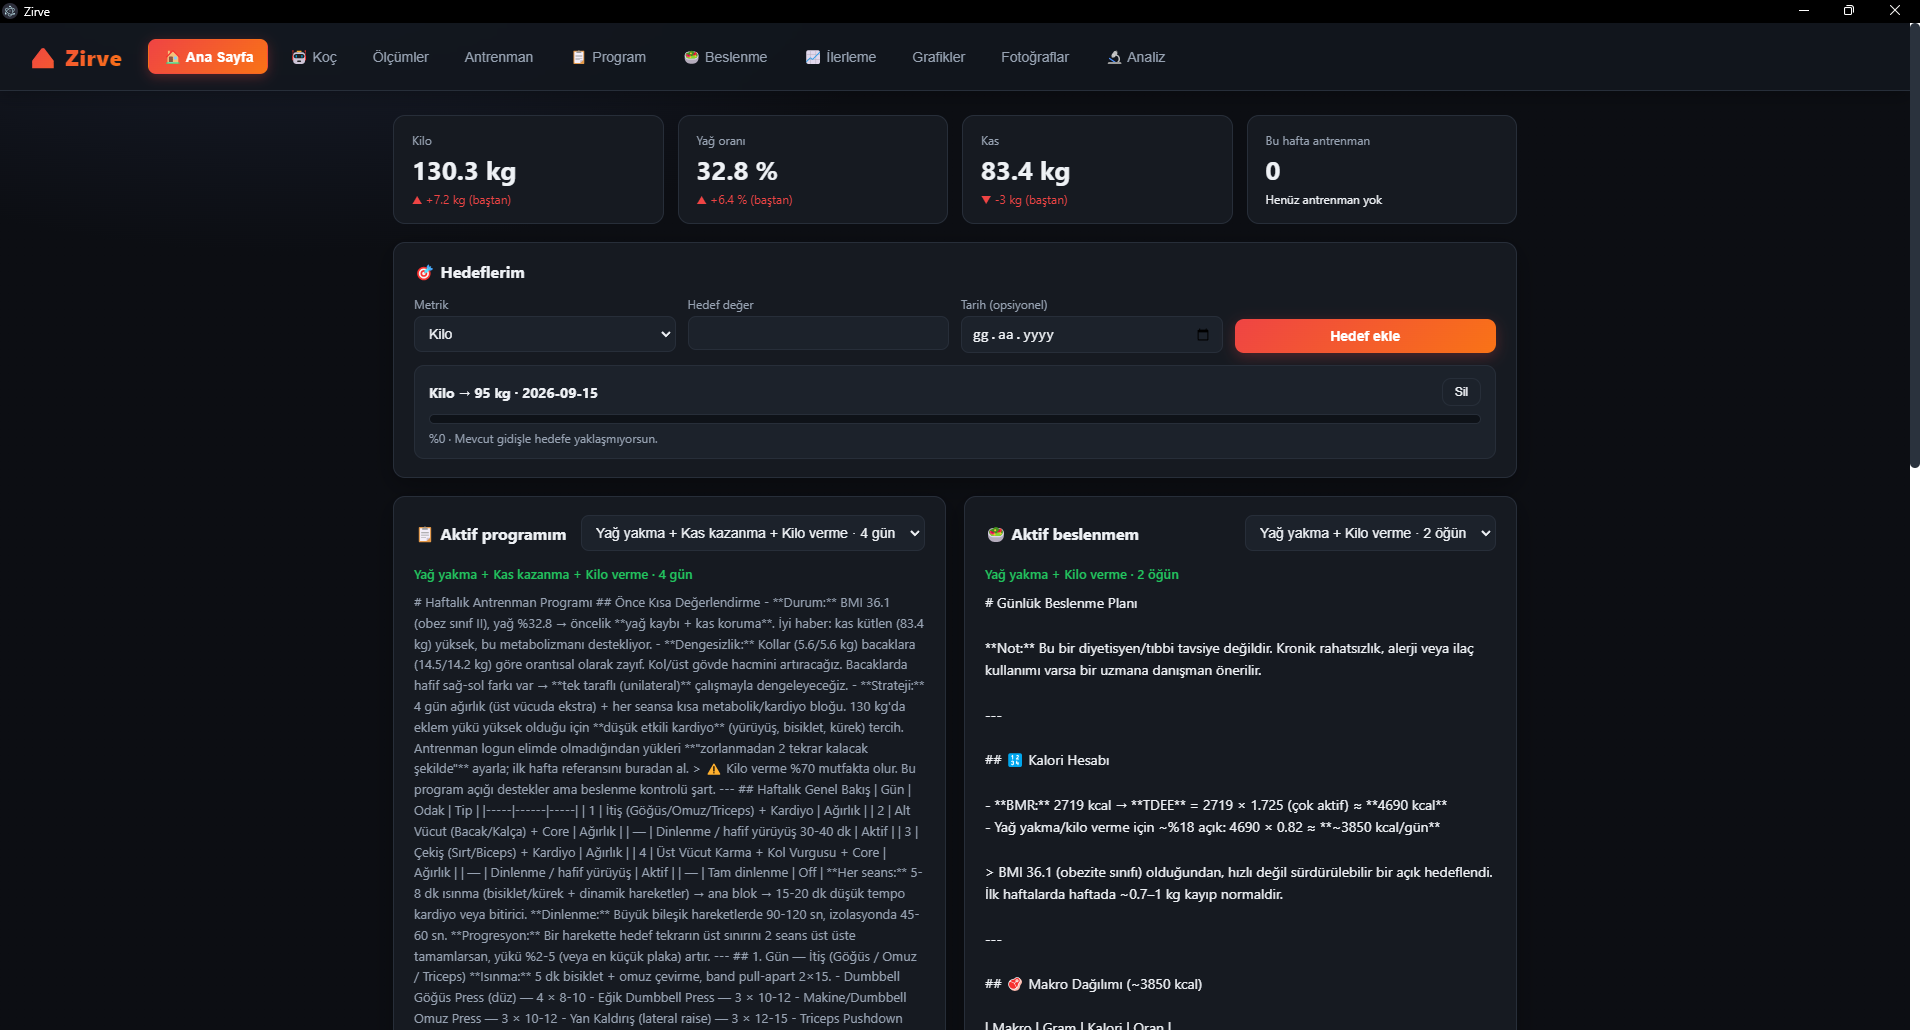
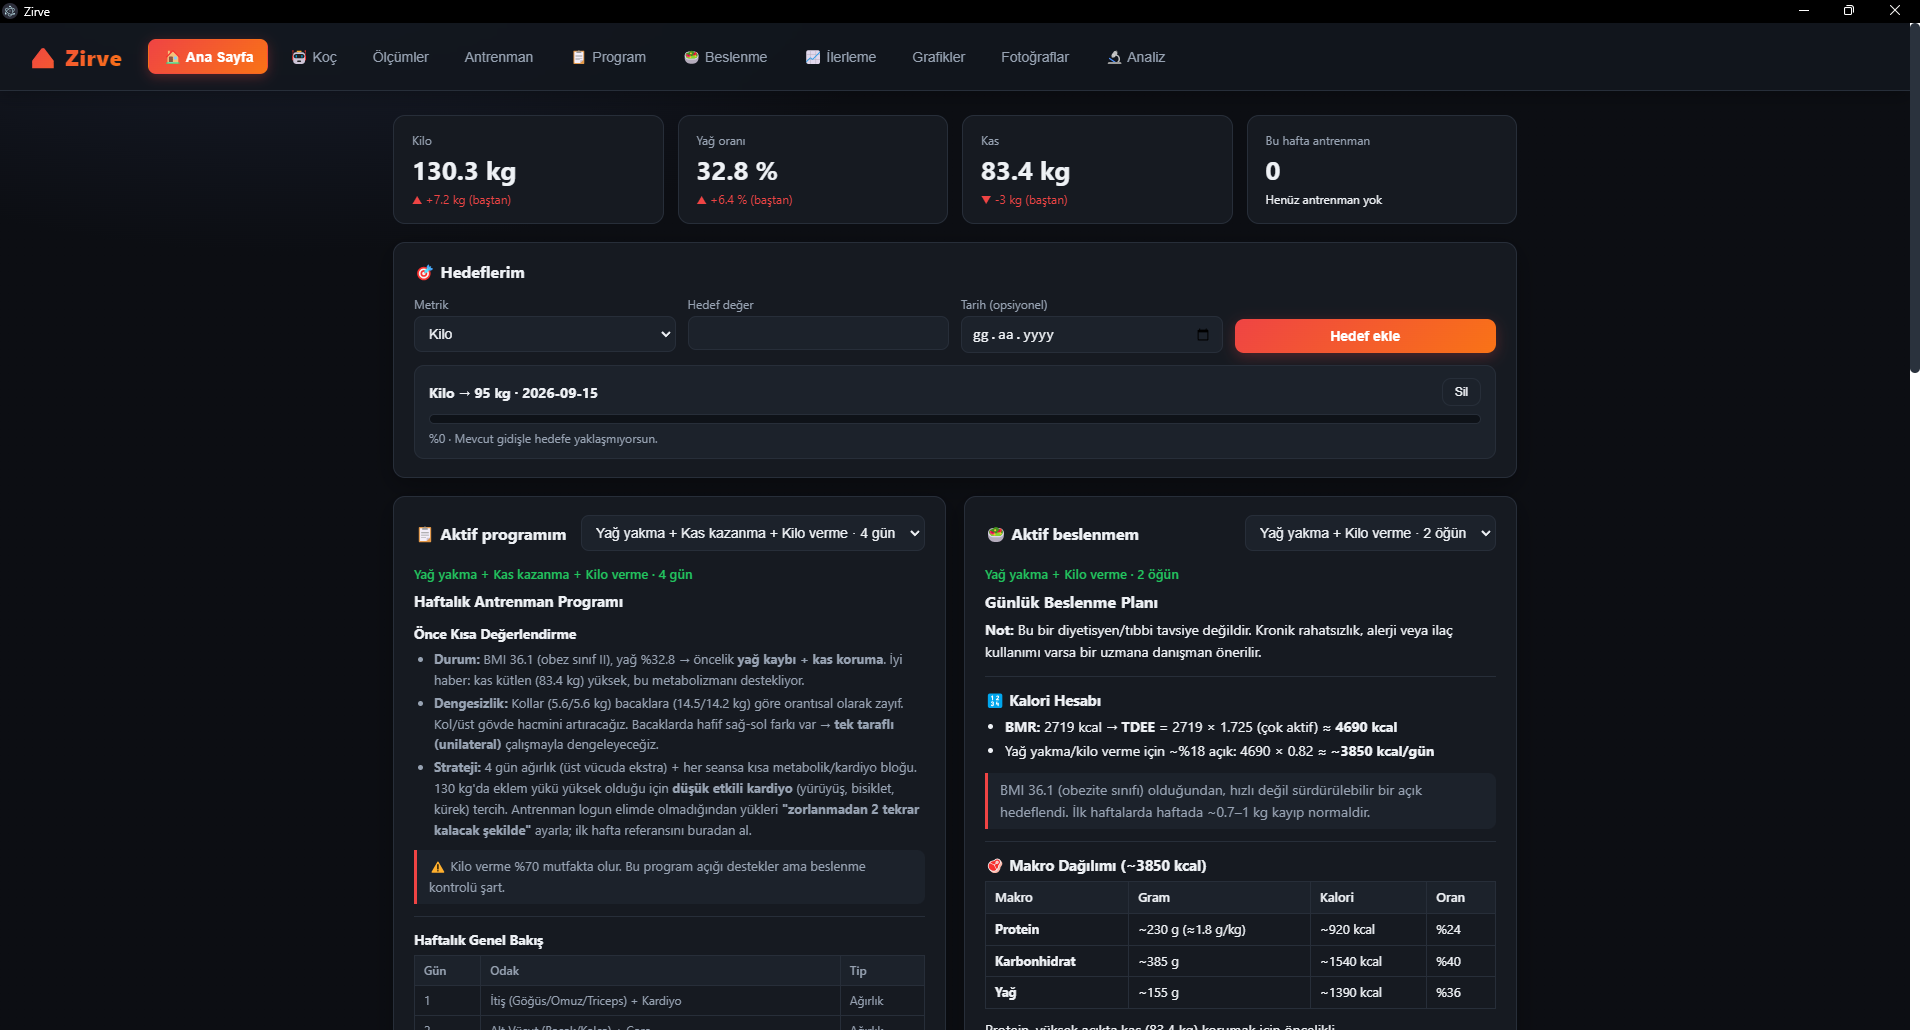
AI çıktısı markdown render + güncel dashboard görseli
Markdown bileşeni eklendi; program/beslenme/analiz/ilerleme/koç
içerikleri artık ham # ** | yerine düzgün render ediliyor. Hero
ekran görüntüsü güncellendi.

diff --git a/app/src/renderer/src/components/Markdown.tsx b/app/src/renderer/src/components/Markdown.tsx
@@ -1,0 +1,160 @@
+import type { ReactElement, ReactNode } from 'react'
+
+// AI çıktısındaki markdown'ı (başlık, kalın/italik, liste, tablo, alıntı,
+// yatay çizgi, kod) harici bağımlılık olmadan render eder. Tam CommonMark
+// değil; modelin ürettiği alt kümeyi kapsar.
+
+function inline(text: string, base: string): ReactNode[] {
+  const nodes: ReactNode[] = []
+  const re = /\*\*([^*]+)\*\*|__([^_]+)__|`([^`]+)`|\*([^*]+)\*/g
+  let last = 0
+  let i = 0
+  let m: RegExpExecArray | null
+  while ((m = re.exec(text)) !== null) {
+    if (m.index > last) nodes.push(text.slice(last, m.index))
+    if (m[1] != null) nodes.push(<strong key={`${base}-${i}`}>{m[1]}</strong>)
+    else if (m[2] != null) nodes.push(<strong key={`${base}-${i}`}>{m[2]}</strong>)
+    else if (m[3] != null) nodes.push(<code key={`${base}-${i}`}>{m[3]}</code>)
+    else if (m[4] != null) nodes.push(<em key={`${base}-${i}`}>{m[4]}</em>)
+    last = re.lastIndex
+    i++
+  }
+  if (last < text.length) nodes.push(text.slice(last))
+  return nodes
+}
+
+function isTableSep(line: string): boolean {
+  return line.includes('-') && /^\s*\|?[\s:|-]+\|?\s*$/.test(line)
+}
+
+function splitRow(line: string): string[] {
+  let s = line.trim()
+  if (s.startsWith('|')) s = s.slice(1)
+  if (s.endsWith('|')) s = s.slice(0, -1)
+  return s.split('|').map((c) => c.trim())
+}
+
+const isHeading = (l: string): boolean => /^\s*#{1,6}\s+/.test(l)
+const isHr = (l: string): boolean => /^\s*(---|\*\*\*|___)\s*$/.test(l)
+const isUl = (l: string): boolean => /^\s*[-*]\s+/.test(l)
+const isOl = (l: string): boolean => /^\s*\d+\.\s+/.test(l)
+const isQuote = (l: string): boolean => /^\s*>\s?/.test(l)
+
+export function Markdown({ text, className }: { text: string; className?: string }): ReactElement {
+  const lines = text.replace(/\r\n/g, '\n').split('\n')
+  const blocks: ReactNode[] = []
+  let i = 0
+  let key = 0
+
+  while (i < lines.length) {
+    const line = lines[i]
+
+    if (line.trim() === '') {
+      i++
+      continue
+    }
+
+    if (isHr(line)) {
+      blocks.push(<hr key={key++} className="md__hr" />)
+      i++
+      continue
+    }
+
+    const h = line.match(/^\s*(#{1,6})\s+(.*)$/)
+    if (h) {
+      const level = h[1].length
+      const kids = inline(h[2], `h${key}`)
+      if (level <= 1) blocks.push(<h3 key={key++} className="md__h md__h1">{kids}</h3>)
+      else if (level === 2) blocks.push(<h4 key={key++} className="md__h md__h2">{kids}</h4>)
+      else blocks.push(<h5 key={key++} className="md__h md__h3">{kids}</h5>)
+      i++
+      continue
+    }
+
+    // GFM tablo
+    if (line.includes('|') && i + 1 < lines.length && isTableSep(lines[i + 1])) {
+      const header = splitRow(line)
+      i += 2
+      const rows: string[][] = []
+      while (i < lines.length && lines[i].includes('|') && lines[i].trim() !== '') {
+        rows.push(splitRow(lines[i]))
+        i++
+      }
+      const tk = key++
+      blocks.push(
+        <div className="md__tablewrap" key={tk}>
+          <table className="md__table">
+            <thead>
+              <tr>{header.map((c, ci) => <th key={ci}>{inline(c, `th${tk}-${ci}`)}</th>)}</tr>
+            </thead>
+            <tbody>
+              {rows.map((r, ri) => (
+                <tr key={ri}>{r.map((c, ci) => <td key={ci}>{inline(c, `td${tk}-${ri}-${ci}`)}</td>)}</tr>
+              ))}
+            </tbody>
+          </table>
+        </div>
+      )
+      continue
+    }
+
+    if (isQuote(line)) {
+      const buf: string[] = []
+      while (i < lines.length && isQuote(lines[i])) {
+        buf.push(lines[i].replace(/^\s*>\s?/, ''))
+        i++
+      }
+      blocks.push(<blockquote key={key++} className="md__quote">{inline(buf.join(' '), `q${key}`)}</blockquote>)
+      continue
+    }
+
+    if (isUl(line)) {
+      const items: string[] = []
+      while (i < lines.length && isUl(lines[i])) {
+        items.push(lines[i].replace(/^\s*[-*]\s+/, ''))
+        i++
+      }
+      const lk = key++
+      blocks.push(
+        <ul key={lk} className="md__ul">
+          {items.map((it, ii) => <li key={ii}>{inline(it, `li${lk}-${ii}`)}</li>)}
+        </ul>
+      )
+      continue
+    }
+
+    if (isOl(line)) {
+      const items: string[] = []
+      while (i < lines.length && isOl(lines[i])) {
+        items.push(lines[i].replace(/^\s*\d+\.\s+/, ''))
+        i++
+      }
+      const lk = key++
+      blocks.push(
+        <ol key={lk} className="md__ol">
+          {items.map((it, ii) => <li key={ii}>{inline(it, `oli${lk}-${ii}`)}</li>)}
+        </ol>
+      )
+      continue
+    }
+
+    // paragraf: ardışık düz satırları birleştir
+    const buf: string[] = []
+    while (
+      i < lines.length &&
+      lines[i].trim() !== '' &&
+      !isHeading(lines[i]) &&
+      !isHr(lines[i]) &&
+      !isUl(lines[i]) &&
+      !isOl(lines[i]) &&
+      !isQuote(lines[i]) &&
+      !(lines[i].includes('|') && i + 1 < lines.length && isTableSep(lines[i + 1]))
+    ) {
+      buf.push(lines[i])
+      i++
+    }
+    blocks.push(<p key={key++} className="md__p">{inline(buf.join(' '), `p${key}`)}</p>)
+  }
+
+  return <div className={className ? `md ${className}` : 'md'}>{blocks}</div>
+}

diff --git a/app/src/renderer/src/assets/main.css b/app/src/renderer/src/assets/main.css
@@ -817,6 +817,87 @@ body {
   color: var(--text);
 }
 
+/* Markdown render (AI çıktısı) — .report/.prog__overview taban tipografisini
+   miras alır; white-space markdown bloklarını bozmasın diye normal'e döner. */
+.md {
+  white-space: normal;
+}
+.md > :first-child {
+  margin-top: 0;
+}
+.md > :last-child {
+  margin-bottom: 0;
+}
+.md__h {
+  color: var(--text);
+  line-height: 1.3;
+  margin: 14px 0 6px;
+}
+.md__h1 {
+  font-size: 1.15em;
+  font-weight: 700;
+}
+.md__h2 {
+  font-size: 1.05em;
+  font-weight: 700;
+}
+.md__h3 {
+  font-size: 1em;
+  font-weight: 600;
+  color: var(--accent);
+}
+.md__p {
+  margin: 0 0 10px;
+}
+.md__ul,
+.md__ol {
+  margin: 0 0 10px;
+  padding-left: 20px;
+}
+.md__ul li,
+.md__ol li {
+  margin: 2px 0;
+}
+.md code {
+  background: var(--panel-2);
+  border: 1px solid var(--border);
+  border-radius: 5px;
+  padding: 1px 5px;
+  font-size: 0.9em;
+}
+.md__hr {
+  border: none;
+  border-top: 1px solid var(--border);
+  margin: 12px 0;
+}
+.md__quote {
+  margin: 0 0 10px;
+  padding: 6px 12px;
+  border-left: 3px solid var(--accent);
+  background: var(--panel-2);
+  border-radius: 0 8px 8px 0;
+  color: var(--muted);
+}
+.md__tablewrap {
+  overflow-x: auto;
+  margin: 0 0 10px;
+}
+.md__table {
+  border-collapse: collapse;
+  width: 100%;
+  font-size: 0.92em;
+}
+.md__table th,
+.md__table td {
+  border: 1px solid var(--border);
+  padding: 5px 9px;
+  text-align: left;
+}
+.md__table th {
+  background: var(--panel-2);
+  font-weight: 600;
+}
+
 /* Yapılandırılmış program günleri */
 .prog__overview {
   font-size: 13px;

diff --git a/app/src/renderer/src/features/dashboard/DashboardPage.tsx b/app/src/renderer/src/features/dashboard/DashboardPage.tsx
@@ -1,6 +1,7 @@
 import { useEffect, useMemo, useState, type ReactElement } from 'react'
 import type { Goal, Measurement, NutritionPlan, ProgramFull, WorkoutSessionFull } from '@shared/types'
 import { ProgramDays } from '../program/ProgramPage'
+import { Markdown } from '../../components/Markdown'
 
 const GOAL_METRICS: Array<{ key: keyof Measurement; label: string; unit: string }> = [
   { key: 'weight_kg', label: 'Kilo', unit: 'kg' },
@@ -229,7 +230,7 @@ export function DashboardPage(): ReactElement {
           {program ? (
             <>
               <div className="active__title">{program.title}</div>
-              {program.content && <p className="prog__overview">{program.content}</p>}
+              {program.content && <Markdown className="prog__overview" text={program.content} />}
               <ProgramDays days={program.days} />
             </>
           ) : (
@@ -262,7 +263,7 @@ export function DashboardPage(): ReactElement {
           {nutrition ? (
             <>
               <div className="active__title">{nutrition.title}</div>
-              <div className="report">{nutrition.content}</div>
+              <Markdown className="report" text={nutrition.content} />
             </>
           ) : (
             <p className="empty">

diff --git a/app/src/renderer/src/features/analysis/AnalysisPage.tsx b/app/src/renderer/src/features/analysis/AnalysisPage.tsx
@@ -1,5 +1,6 @@
 import { useEffect, useMemo, useState, type ReactElement } from 'react'
 import type { Analysis, ClientPhoto } from '@shared/types'
+import { Markdown } from '../../components/Markdown'
 
 export function AnalysisPage(): ReactElement {
   const [photos, setPhotos] = useState<ClientPhoto[]>([])
@@ -146,7 +147,7 @@ export function AnalysisPage(): ReactElement {
                 Sil
               </button>
             </div>
-            <div className="report">{a.report}</div>
+            <Markdown className="report" text={a.report} />
           </section>
         ))
       )}

diff --git a/app/src/renderer/src/features/coach/CoachPage.tsx b/app/src/renderer/src/features/coach/CoachPage.tsx
@@ -6,6 +6,7 @@ import {
   type ReactElement
 } from 'react'
 import type { Chat, ChatMessage } from '@shared/types'
+import { Markdown } from '../../components/Markdown'
 
 const SUGGESTIONS = [
   'Son durumumu değerlendir, ne yapmalıyım?',
@@ -152,7 +153,7 @@ export function CoachPage(): ReactElement {
 
           {messages.map((m) => (
             <div key={m.id} className={`bubble bubble--${m.role}`}>
-              {m.text}
+              {m.role === 'coach' ? <Markdown text={m.text} /> : m.text}
             </div>
           ))}
 

diff --git a/app/src/renderer/src/features/nutrition/NutritionPage.tsx b/app/src/renderer/src/features/nutrition/NutritionPage.tsx
@@ -1,5 +1,6 @@
 import { useEffect, useState, type ReactElement } from 'react'
 import type { NutritionPlan } from '@shared/types'
+import { Markdown } from '../../components/Markdown'
 
 const GOALS = [
   'Yağ yakma',
@@ -168,7 +169,7 @@ export function NutritionPage(): ReactElement {
                 </button>
               </div>
             </div>
-            <div className="report">{p.content}</div>
+            <Markdown className="report" text={p.content} />
           </section>
         ))
       )}

diff --git a/app/src/renderer/src/features/program/ProgramPage.tsx b/app/src/renderer/src/features/program/ProgramPage.tsx
@@ -1,5 +1,6 @@
 import { useEffect, useState, type ReactElement } from 'react'
 import type { ProgramDay, ProgramFull } from '@shared/types'
+import { Markdown } from '../../components/Markdown'
 
 const GOALS = [
   'Kas kazanma',
@@ -143,7 +144,7 @@ export function ProgramPage(): ReactElement {
                 </button>
               </div>
             </div>
-            {p.content && <p className="prog__overview">{p.content}</p>}
+            {p.content && <Markdown className="prog__overview" text={p.content} />}
             <ProgramDays days={p.days} />
           </section>
         ))

diff --git a/app/src/renderer/src/features/progress/ProgressPage.tsx b/app/src/renderer/src/features/progress/ProgressPage.tsx
@@ -1,5 +1,6 @@
 import { useEffect, useState, type ReactElement } from 'react'
 import type { Measurement, ProgressReview } from '@shared/types'
+import { Markdown } from '../../components/Markdown'
 
 interface MetricDef {
   key: keyof Measurement
@@ -128,7 +129,7 @@ export function ProgressPage(): ReactElement {
               Sil
             </button>
           </div>
-          <div className="report">{r.content}</div>
+          <Markdown className="report" text={r.content} />
         </section>
       ))}
     </div>